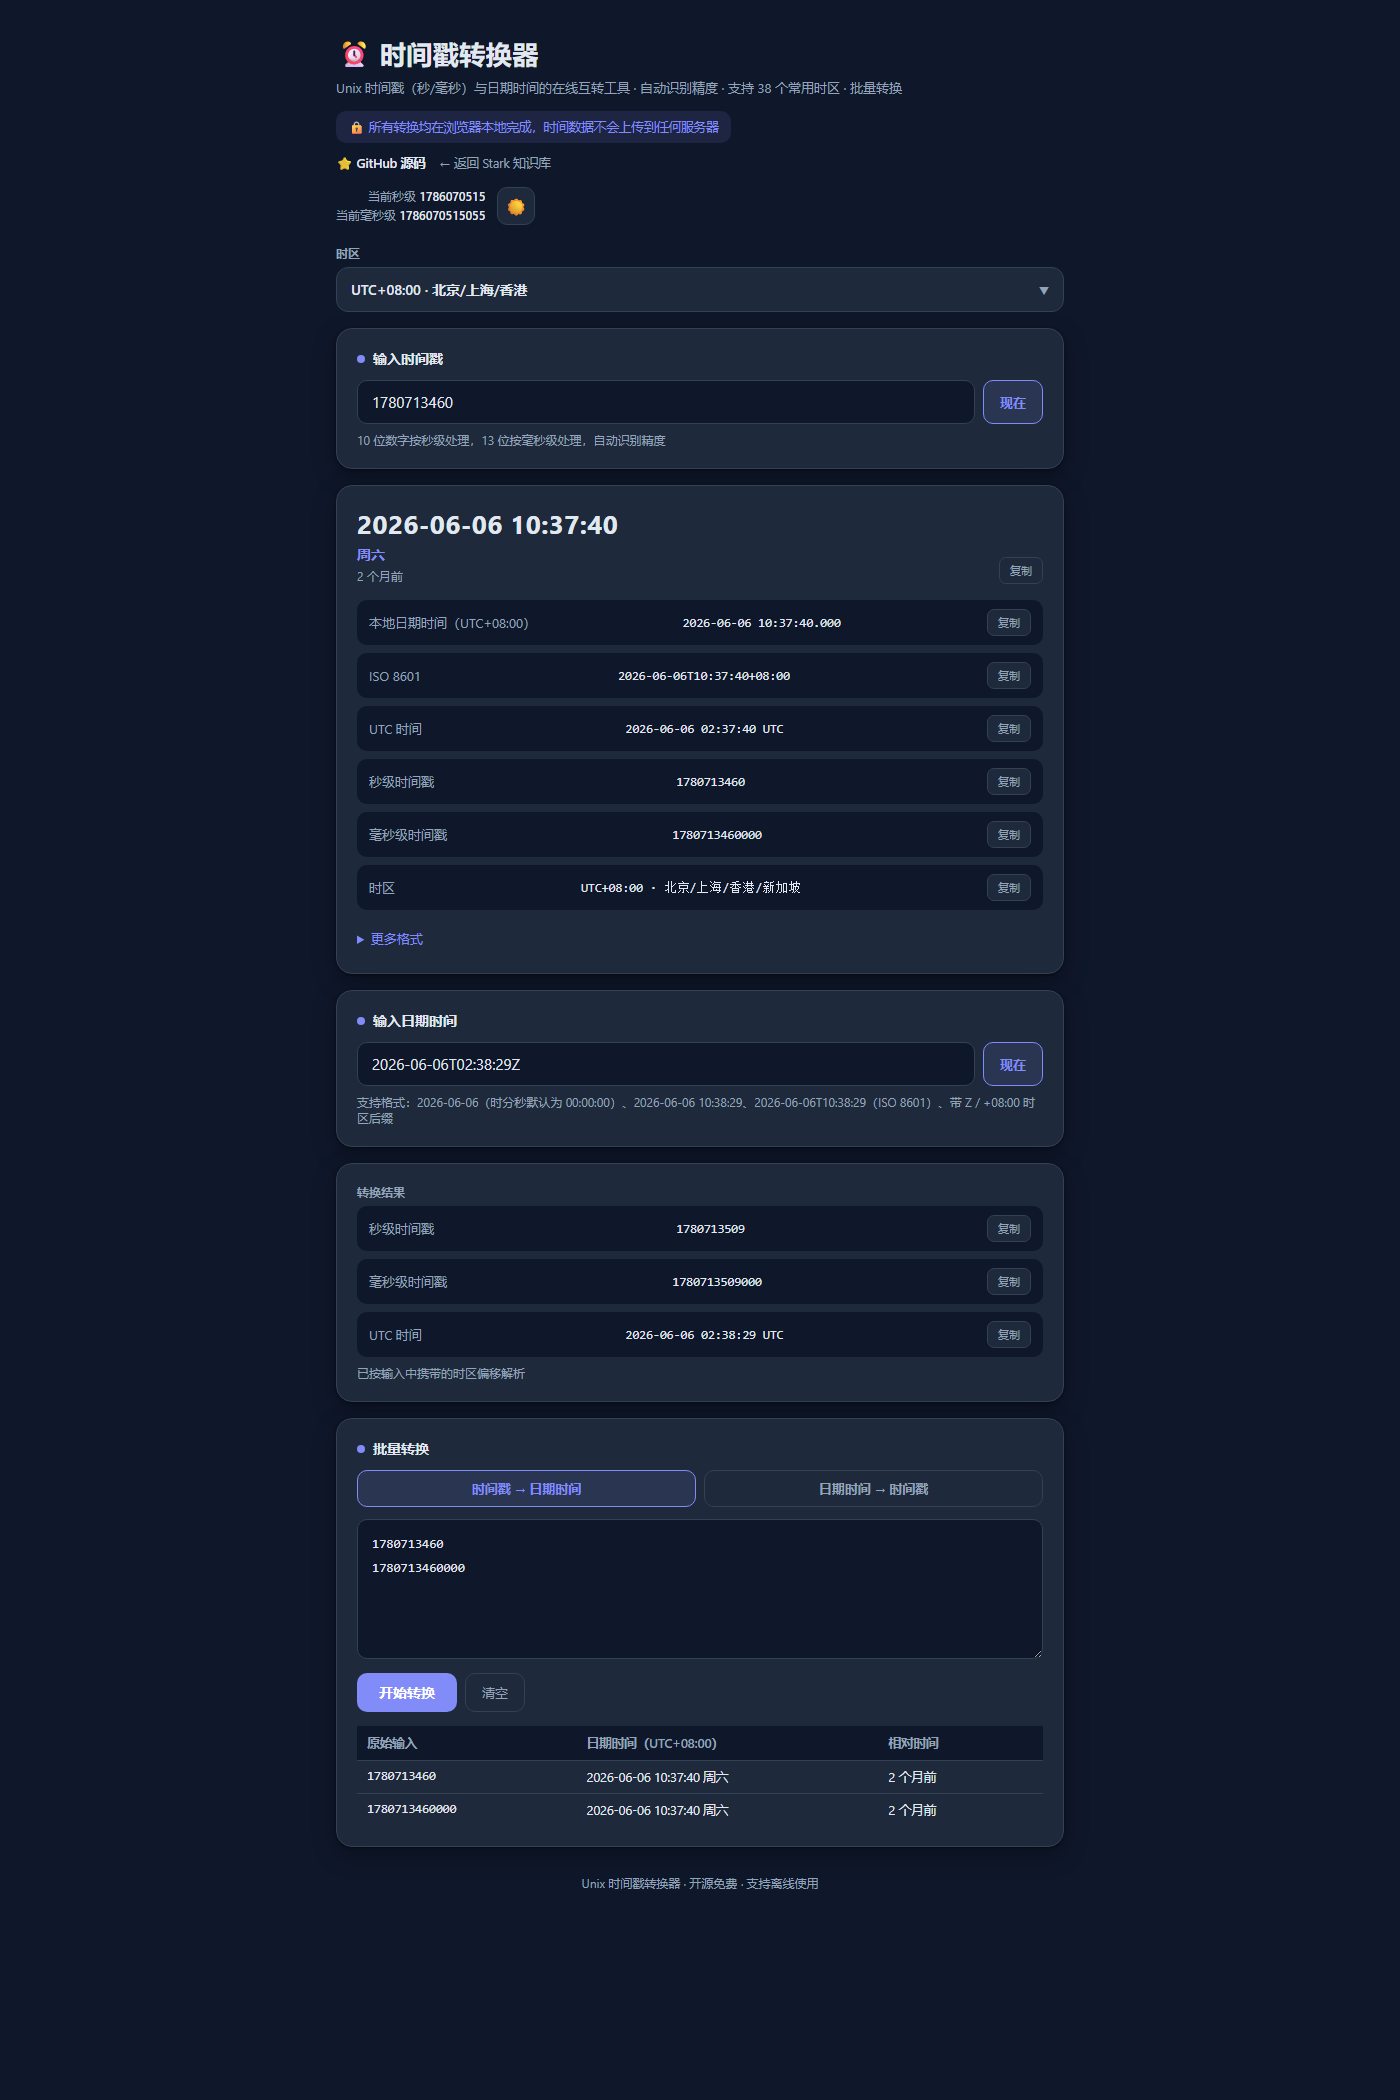
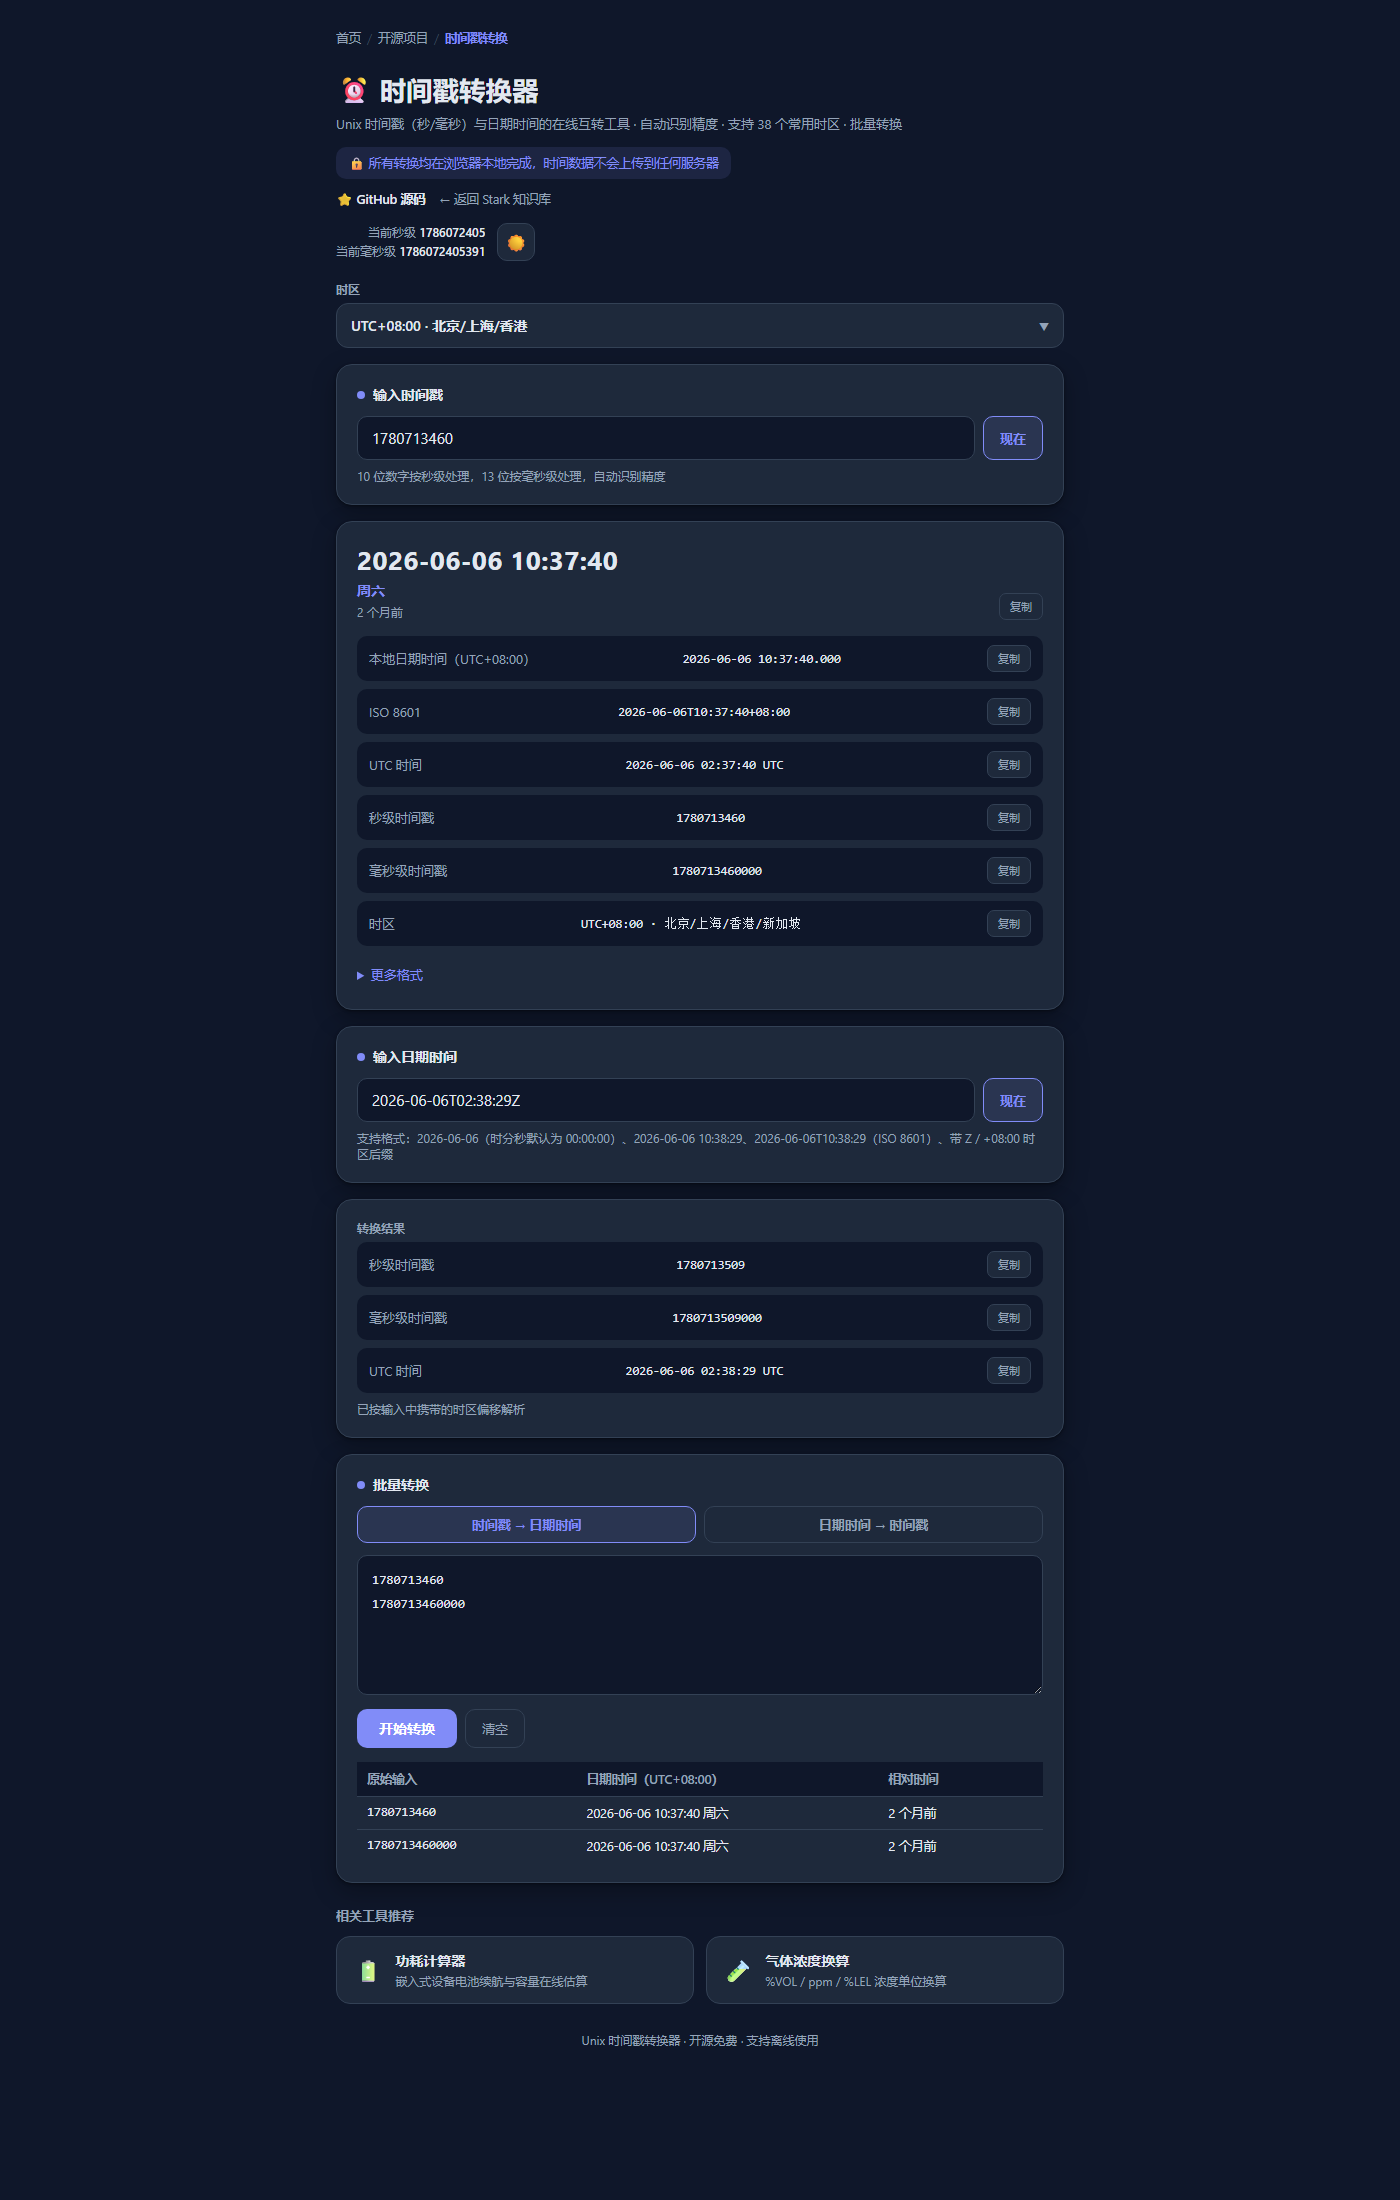
style(open-source): 时间戳工具借鉴 MeTool 风格增加面包屑与相关工具区
- 页面顶部增加面包屑导航（首页/开源项目/时间戳转换）

- 页面底部增加相关工具推荐卡片（功耗计算器、气体浓度换算），新窗口跳转

- 更新界面截图

diff --git a/public/timestamp-converter/index.html b/public/timestamp-converter/index.html
@@ -67,6 +67,27 @@
   .icon-moon { display: none; }
   [data-theme="dark"] .icon-moon { display: inline; }
 
+  /* ===== Breadcrumb ===== */
+  .breadcrumb { font-size: 12.5px; color: var(--text-2); margin-bottom: 14px; padding-top: 6px; }
+  .breadcrumb a { color: var(--text-2); text-decoration: none; transition: color .2s; }
+  .breadcrumb a:hover { color: var(--primary); }
+  .breadcrumb .sep { margin: 0 6px; color: var(--border); }
+  .breadcrumb .cur { color: var(--primary); font-weight: 600; }
+
+  /* ===== Related tools ===== */
+  .related { margin-top: 24px; }
+  .related-title { font-size: 13px; font-weight: 700; color: var(--text-2); margin-bottom: 12px; }
+  .related-grid { display: grid; grid-template-columns: 1fr 1fr; gap: 12px; }
+  .related-card {
+    display: flex; align-items: center; gap: 12px; padding: 14px 16px;
+    background: var(--card); border: 1px solid var(--border); border-radius: 14px;
+    text-decoration: none; color: var(--text); transition: all .2s;
+  }
+  .related-card:hover { border-color: var(--primary); box-shadow: var(--shadow); transform: translateY(-2px); }
+  .rc-icon { font-size: 22px; flex-shrink: 0; }
+  .rc-name { display: block; font-size: 14px; font-weight: 700; }
+  .rc-desc { display: block; font-size: 12px; color: var(--text-2); margin-top: 3px; }
+
   /* ===== Card ===== */
   .card {
     background: var(--card); border: 1px solid var(--border); border-radius: 16px;
@@ -193,10 +214,17 @@
   @media (min-width: 560px) {
     .result-grid { grid-template-columns: 1fr; }
   }
+  @media (max-width: 560px) {
+    .related-grid { grid-template-columns: 1fr; }
+  }
 </style>
 </head>
 <body>
 <div class="container">
+
+  <div class="breadcrumb">
+    <a href="/">首页</a><span class="sep">/</span><a href="/open-source/">开源项目</a><span class="sep">/</span><span class="cur">时间戳转换</span>
+  </div>
 
   <header>
     <div class="brand">
@@ -316,6 +344,26 @@
       <div class="batch-result" id="batchResult"></div>
     </div>
   </section>
+
+  <div class="related">
+    <div class="related-title">相关工具推荐</div>
+    <div class="related-grid">
+      <a class="related-card" href="/open-source/power-calculator/" target="_blank">
+        <span class="rc-icon">🔋</span>
+        <span>
+          <span class="rc-name">功耗计算器</span>
+          <span class="rc-desc">嵌入式设备电池续航与容量在线估算</span>
+        </span>
+      </a>
+      <a class="related-card" href="/open-source/gas-converter/" target="_blank">
+        <span class="rc-icon">🧪</span>
+        <span>
+          <span class="rc-name">气体浓度换算</span>
+          <span class="rc-desc">%VOL / ppm / %LEL 浓度单位换算</span>
+        </span>
+      </a>
+    </div>
+  </div>
 
   <footer>Unix 时间戳转换器 · 开源免费 · 支持离线使用</footer>
 </div>
